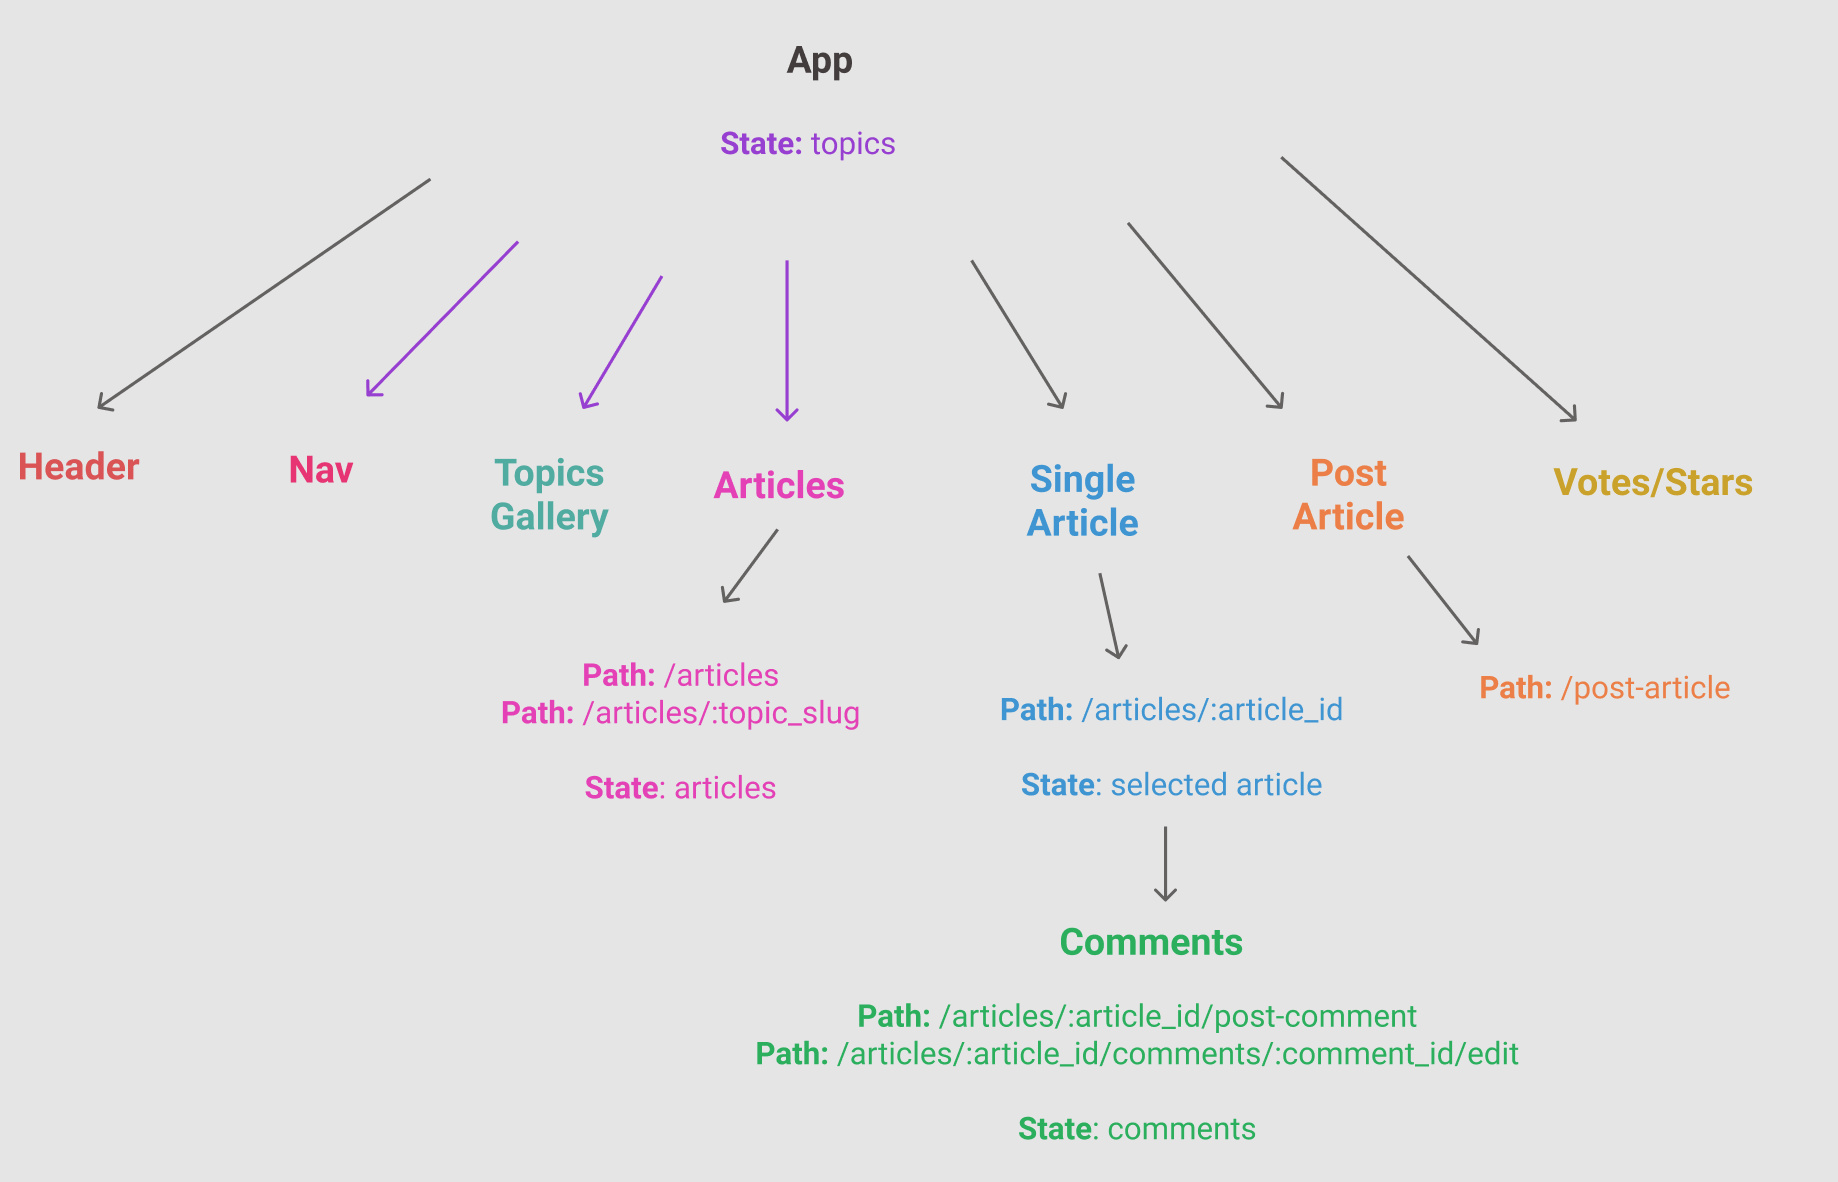
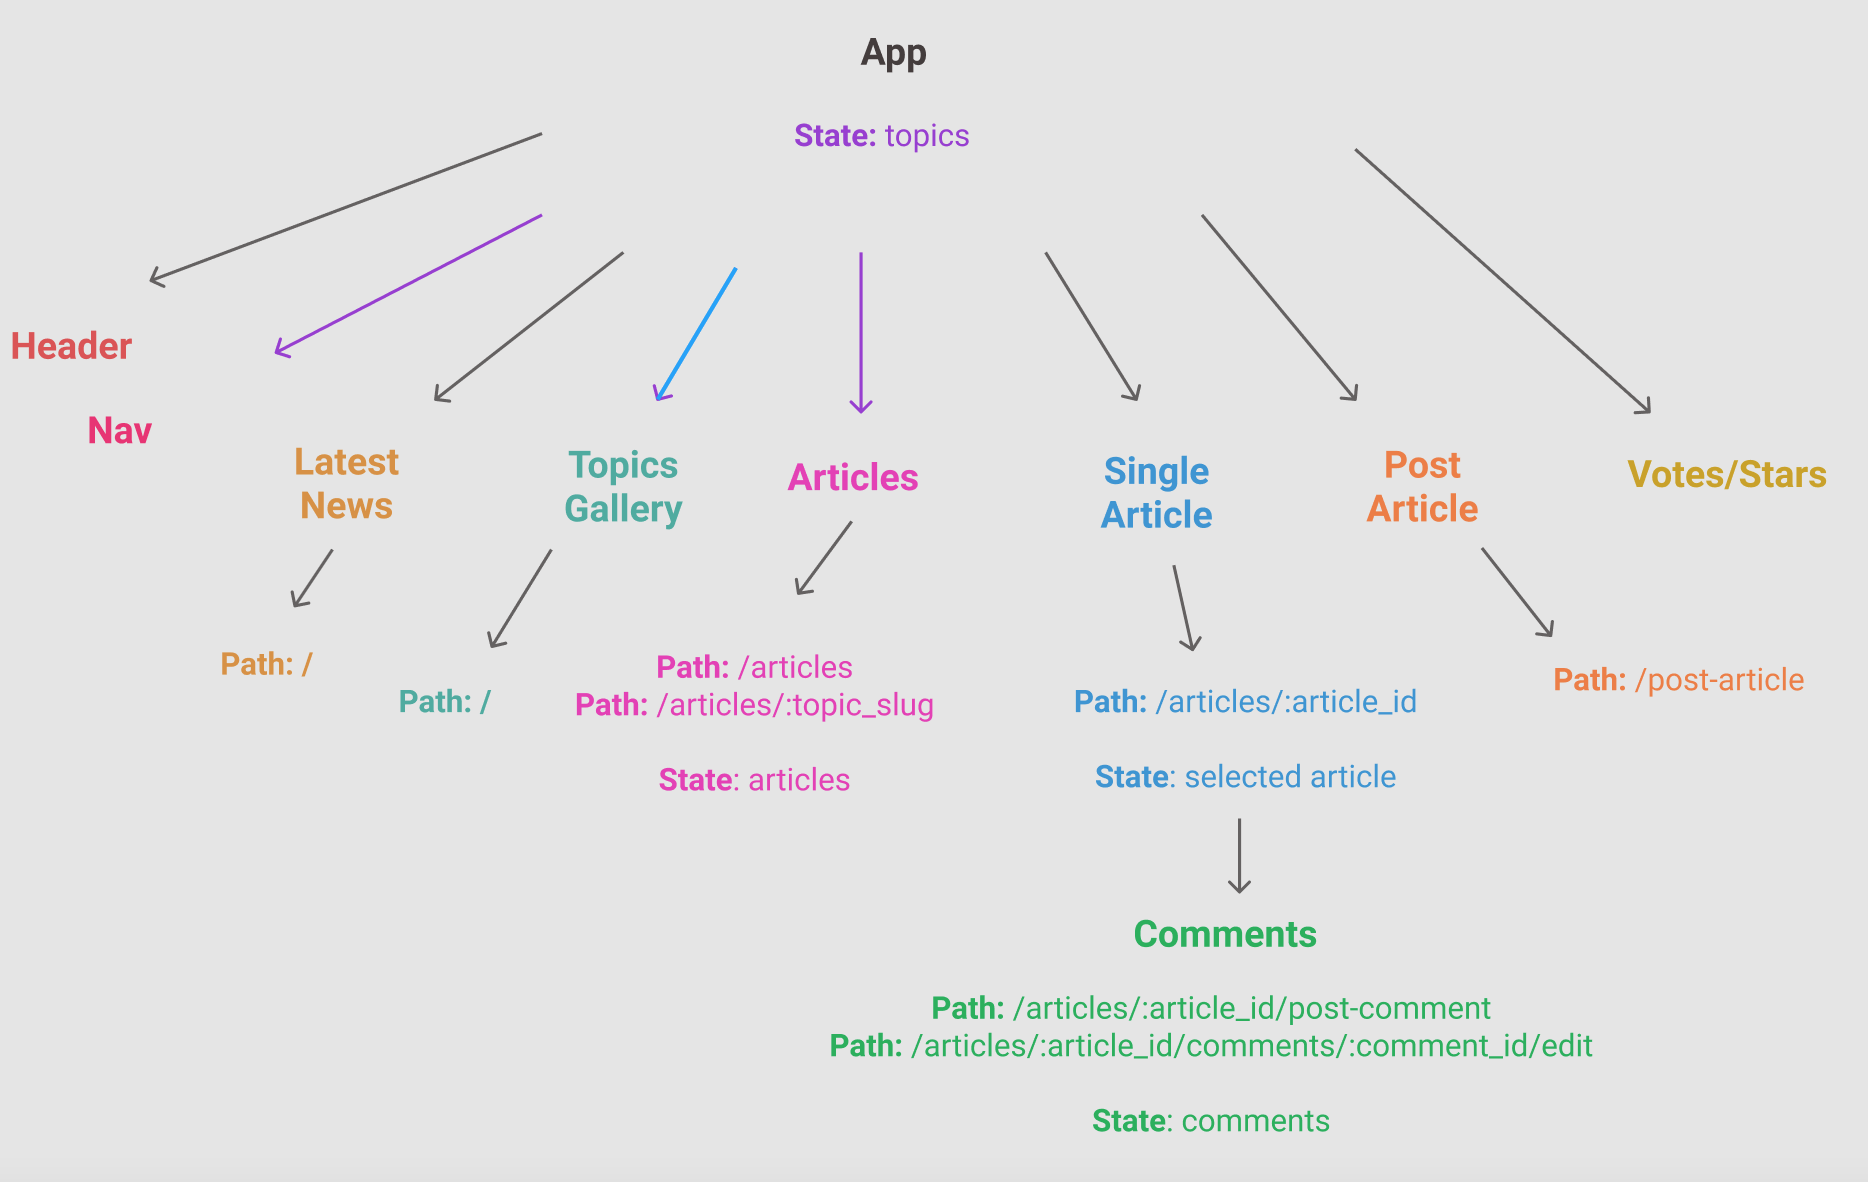
add LatestNews component

diff --git a/src/components/LatestNews.jsx b/src/components/LatestNews.jsx
@@ -1,0 +1,11 @@
+import React from 'react';
+
+const LatestNews = () => {
+    return (
+        <div>
+            
+        </div>
+    );
+};
+
+export default LatestNews;
